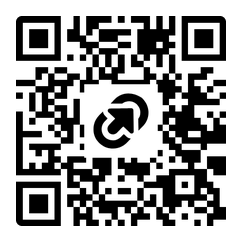
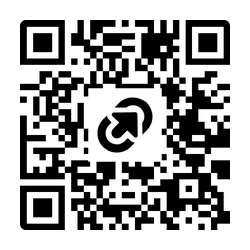
Extract 1:1 square QR code matrix and enforce 1:1 container framing

Changed region(s): [[0.0579, 0.0579, 0.9545, 0.9545]]

diff --git a/index.html b/index.html
@@ -1890,8 +1890,8 @@
             </div>
 
             <!-- Embedded QR Code -->
-            <div style="background: #ffffff; padding: 12px; border-radius: 12px; display: inline-block; box-shadow: 0 4px 16px rgba(0,0,0,0.5); margin-bottom: 16px;">
-              <img src="TinyURL mtpcxt66-qr QR code.png" alt="NHC '26 App QR Code" style="width: 210px; height: 210px; display: block; border-radius: 6px;" />
+            <div style="background: #ffffff; padding: 10px; border-radius: 12px; display: inline-flex; align-items: center; justify-content: center; width: 210px; height: 210px; box-shadow: 0 4px 16px rgba(0,0,0,0.5); margin-bottom: 16px; box-sizing: border-box;">
+              <img src="TinyURL mtpcxt66-qr QR code.png" alt="NHC '26 App QR Code" style="width: 100%; height: 100%; object-fit: contain; display: block; border-radius: 6px;" />
             </div>
 
             <!-- URL Display & Copy Box -->
